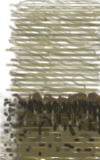
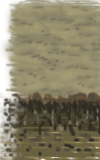
Minor edits to ptest

diff --git a/www/ptest.php b/www/ptest.php
@@ -22,14 +22,19 @@ if (isset($_GET["smooth"])) {
 else $smooth = rand(10,90);
 
 if (isset($_GET["x"])) {
-	$xoff = setBint($_GET["x"], 0, 100000000, 0);
+	$xoff = setBint($_GET["x"], -10000, 10000, 0);
 }
 else $xoff = 0;
 
 if (isset($_GET["y"])) {
-	$yoff = setBint($_GET["y"], 0, 10000, 0);
+	$yoff = setBint($_GET["y"], -10000, 10000, 0);
 }
 else $yoff = 0;
+
+if (isset($_GET["water"])) {
+	$water = setBint($_GET["water"], 0, 90, 0);
+}
+else $water = 0;
 
 $bob = new Perlin($seed);
 $bill = new Perlin($seed+1);
@@ -49,13 +54,14 @@ $materials = array(
 	);
 
 $counter = 0;
-$ranges = array();
-
-for ($i = 0; $i<sizeof($materials); $i++) {
-	$counter += rand(5,25);
-	if ($i==sizeof($materials)-1) $ranges[] = 101;
-	else $ranges[] = $counter;
-}
+$ranges = array(
+	20,
+	40,
+	50,
+	60,
+	80,
+	100
+	);
 
 $material = $materials[rand(0,sizeof($materials)-1)];
 
@@ -77,13 +83,21 @@ for($y=0; $y<$gridsize; $y+=1) {
 		
 		$r2 = 0;
 		foreach ($ranges as $key => $r) {
-			if ($r>$raw2) {
+			if ($raw2<$r) {
 				$r2 = $key;
 				break;
 			}
 		}
 		
 		$material = $materials[$r2];
+		
+		if ($raw<$water/100) {
+			$raw = $water/100;
+			$material = "wat";
+		}
+		else if ($raw<($water+3)/100) {
+			$material = "san";
+		}
 		
 		$array[] = array(
 			"x" => $x,
@@ -103,7 +117,7 @@ $variation = 100;
 foreach ($array as $info) {
 	$d = round($info["raw"]*$variation-($variation*0.6));
 	
-	$bottom = applyStamp($bottom, 'graphics/' . $info["material"] . '1.png', $info["x"]*$space+($info["y"]*2)-60, round(50+$info["y"]*$space-($info["raw"]*$variation*2.5)-($info["x"]*2)), $d);
+	$bottom = applyStamp($bottom, 'graphics/' . $info["material"] . '1.png', $info["x"]*$space, round(50+$info["y"]*$space-($info["raw"]*$variation*2.5)), $d);
 	$prevy = $info["y"];
 }
 
